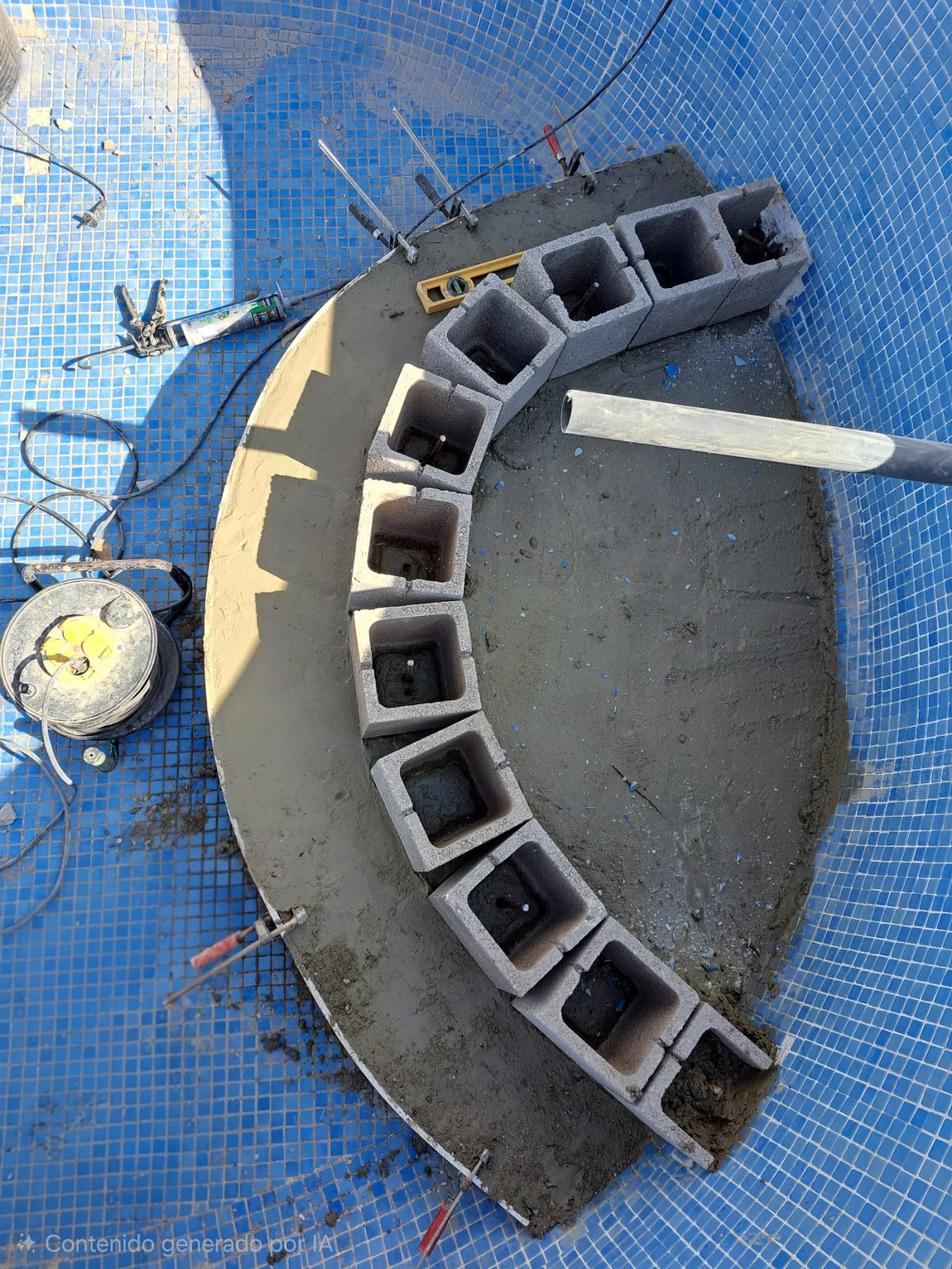
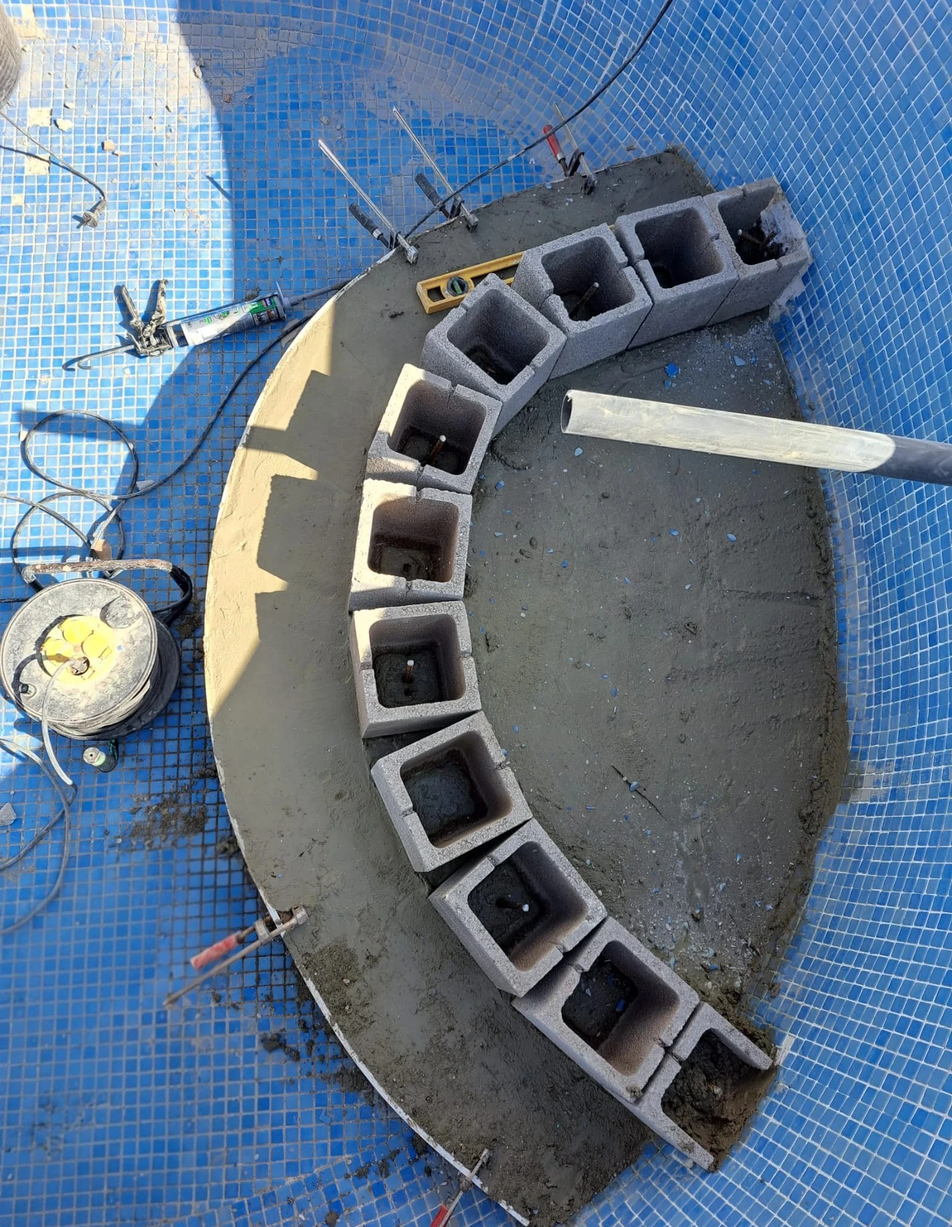
Sistema reseñas mejorada

diff --git a/docs/styles.css b/docs/styles.css
@@ -2068,6 +2068,14 @@ img {
    REVIEW FORM - Estilos Premium
    ======================================== */
 
+.web-reviews {
+  padding-bottom: 25px;
+}
+
+.web-reviews + .services {
+  padding-top: 50px;
+}
+
 .testimonials-review-divider {
   height: 2px;
   background: linear-gradient(90deg,
@@ -2122,14 +2130,34 @@ img {
     inset 0 1px 1px rgba(255, 255, 255, 0.15);
 }
 
-#reviewForm:hover {
-  background: linear-gradient(135deg,
-    rgba(255, 255, 255, 0.12) 0%,
-    rgba(255, 255, 255, 0.08) 100%);
-  border-color: rgba(255, 102, 0, 0.18);
-  box-shadow:
-    0 16px 36px rgba(255, 102, 0, 0.12),
-    inset 0 1px 1px rgba(255, 255, 255, 0.25);
+.web-reviews #reviewForm {
+  background: var(--white);
+  border: 1px solid rgba(8, 15, 40, 0.08);
+  box-shadow: var(--shadow);
+  margin: 20px auto 50px;
+  backdrop-filter: none;
+}
+
+.web-reviews .rating-block {
+  background: rgba(15, 23, 42, 0.04);
+  border: 1px solid rgba(8, 15, 40, 0.08);
+}
+
+.web-reviews .rating-label,
+.web-reviews .rating-hint {
+  color: var(--gray);
+}
+
+.web-reviews .rating-stars label {
+  color: rgba(24, 24, 24, 0.25);
+}
+
+.web-reviews #reviewCounter {
+  color: var(--gray);
+}
+
+.web-reviews .form-consent {
+  color: var(--gray);
 }
 
 #reviewForm > input,
@@ -2941,6 +2969,7 @@ img {
   display: flex;
   justify-content: center;
   margin-top: 40px;
+  margin-bottom: 50px;
 }
 
 @media (max-width: 1024px) {
@@ -2990,4 +3019,64 @@ img {
 img {
   user-select: none;
   -webkit-user-drag: none;
+}
+
+.section-divider {
+  display: flex;
+  justify-content: center;
+  align-items: center;
+  margin: 45px auto 45px;
+}
+
+.section-divider span {
+  width: min(220px, 60vw);
+  height: 2px;
+  border-radius: 999px;
+  background: linear-gradient(
+    90deg,
+    transparent 0%,
+    rgba(255,106,0,0.15) 10%,
+    #ff6a00 50%,
+    rgba(255,106,0,0.15) 90%,
+    transparent 100%
+  );
+  position: relative;
+}
+
+.section-divider span::before {
+  content: '';
+  position: absolute;
+  left: 50%;
+  top: 50%;
+  width: 12px;
+  height: 12px;
+  background: #ff6a00;
+  border-radius: 50%;
+  transform: translate(-50%, -50%);
+  box-shadow:
+    0 0 10px rgba(255,106,0,0.6),
+    0 0 25px rgba(255,106,0,0.35);
+}
+
+.review-public-choice{
+  margin-top: 20px;
+}
+
+.review-public-choice p{
+  margin-bottom: 12px;
+  font-weight: 600;
+}
+
+.review-public-options{
+  margin-bottom: 20px;
+  display:flex;
+  gap:20px;
+  flex-wrap:wrap;
+}
+
+.review-public-options label{
+  display:flex;
+  align-items:center;
+  gap:8px;
+  cursor:pointer;
 }

diff --git a/docs/index.html b/docs/index.html
@@ -301,6 +301,29 @@
         <span class="dot" data-index="3"></span>
         <span class="dot" data-index="4"></span>
       </div>
+    </div>
+  </section>
+
+  <section class="section web-reviews">
+    <div class="container">
+      <div class="section-header">
+        <span class="section-tag">Reseñas verificadas</span>
+        <h2 class="section-title">
+          Opiniones de clientes
+        </h2>
+      </div>
+
+      <div class="reviews-grid" id="reviewsGrid"></div>
+      <div class="reviews-more">
+        <a href="reviews.html" class="btn-secondary">
+          Ver todas las reseñas
+        </a>
+      </div>
+
+      <div class="section-divider">
+        <span></span>
+      </div>
+
       <form id="reviewForm">
 
         <input type="text" id="review-name" placeholder="Tu nombre" required>
@@ -342,7 +365,7 @@
 
         <div class="form-consent">
           <input type="checkbox" id="review-consent" name="review-consent" required>
-          <label for="review-consent" style="color: white;">
+          <label for="review-consent">
             He leído y acepto la
             <a href="legal.html#privacidad" rel="noopener" style="text-decoration: none;">
               Política de Privacidad
@@ -354,31 +377,27 @@
           </label>
         </div>
 
+        <div class="review-public-choice">
+          <p>¿Nos autorizas a publicar tu reseña en la web?</p>
+
+          <div class="review-public-options">
+            <label>
+              <input type="radio" name="review-public" value="si" required>
+              Sí
+            </label>
+            <label>
+              <input type="radio" name="review-public" value="no" required>
+              No
+            </label>
+          </div>
+        </div>
+
         <button type="submit">
           Enviar reseña
         </button>
 
         <div id="reviewMessage"></div>
-
       </form>
-    </div>
-  </section>
-
-  <section class="section web-reviews">
-    <div class="container">
-      <div class="section-header">
-        <span class="section-tag">Reseñas verificadas</span>
-        <h2 class="section-title">
-          Opiniones de clientes
-        </h2>
-      </div>
-
-      <div class="reviews-grid" id="reviewsGrid"></div>
-      <div class="reviews-more">
-        <a href="reviews.html" class="btn-secondary">
-          Ver todas las reseñas
-        </a>
-      </div>
     </div>
   </section>
 

diff --git a/docs/legal.html b/docs/legal.html
@@ -61,7 +61,11 @@
       <p>El envío del formulario puede redirigir la información proporcionada a WhatsApp con el fin de facilitar la comunicación entre el usuario y Reformas Vesko.</p>
 
       <h3>Formulario de reseñas</h3>
-      <p>El formulario de reseñas permite enviar un nombre y un comentario de forma voluntaria con el objetivo de mostrar opiniones y experiencias relacionadas con los servicios ofrecidos.</p>
+      <p>El formulario de reseñas permite enviar un nombre, una valoración (de 1 a 5) y un comentario relacionado con los servicios ofrecidos por Reformas Vesko.</p>
+      <p>El usuario podrá decidir expresamente si autoriza o no la publicación de su reseña en esta página web mediante la opción correspondiente incluida en el formulario.</p>
+      <p>En caso de autorizar su publicación, la reseña podrá mostrarte públicamente junto al nombre facilitado por el usuario.
+
+    <p>El usuario podrá solicitar en cualquier momento la modificación o eliminación de su reseña contactando mediante el correo electrónico <a href="mailto:vesko7744@gmail.com?subject=Solicitud%20de%20modificación%20de%20una%20reseña&body=Hola%20Reformas%20Vesko,%0A%0ANecesito%20por%20favor%20cambiar%20una%20reseña%20publicada%20en%20vuestra%20web.%0A%0AGracias."><span style="color: #f76500">vesko7744@gmail.com</span></a>.</p>
 
       <h3>Cesión de datos</h3>
       <p>Los datos facilitados no serán cedidos a terceros salvo obligación legal.</p>
@@ -125,8 +129,6 @@
       <p>Titular del sitio web: Reformas Vesko</p>
       <p>Email: <a href="mailto:vesko7744@gmail.com"><span style="color: #f76500">vesko7744@gmail.com</span></a></p>
       <p>Teléfono: <a href="tel:+34633807795"><span style="color: #f76500">633 80 77 95</span></a></p>
-      <div class="legal-divider"></div>
-      <p>Última actualización: mayo de 2026</p>
     </div>
   </div>
 </section>

diff --git a/docs/script.js b/docs/script.js
@@ -202,6 +202,7 @@ function initContactForm() {
       📞 Teléfono: ${telefono}
       🛠 Servicio: ${servicioTexto}
       📧 Email: ${email || 'No indicado'}
+      📝 Publicar en web: ${publicConsent}
 
       💬 Mensaje:
       ${mensaje || 'Sin mensaje'}`
@@ -327,6 +328,8 @@ function initReviewForm() {
     const name = (nameInput.value || '').trim();
     const ratingSelected = form.querySelector('input[name="review-stars"]:checked');
     const comment = (commentInput.value || '').trim();
+    const publicConsent =
+      form.querySelector('input[name="review-public"]:checked')?.value || 'no';
     const hp = honeypot ? (honeypot.value || '') : '';
 
     // Validaciones básicas
@@ -378,7 +381,8 @@ function initReviewForm() {
           {
             name,
             stars: starsNum,
-            comment
+            comment,
+            public_consent: publicConsent === 'si'
           }
         ]);
 
@@ -875,12 +879,6 @@ async function initWebReviews() {
 
     const stars = '★'.repeat(review.stars) + '☆'.repeat(5 - review.stars);
 
-    const formattedDate = new Date(review.created_at).toLocaleDateString('es-ES', {
-      year: 'numeric',
-      month: 'long',
-      day: 'numeric'
-    });
-
     card.innerHTML = `
       <div class="review-stars">${stars}</div>
 
@@ -890,7 +888,6 @@ async function initWebReviews() {
 
       <div class="review-footer">
         <span class="review-name">${review.name}</span>
-        <span class="review-date">${formattedDate}</span>
       </div>
     `;
 
@@ -968,7 +965,6 @@ async function initReviewsPage(page = 1) {
 
       <div class="review-footer">
         <span class="review-name">${review.name}</span>
-        <span class="review-date">${formattedDate}</span>
       </div>
     `;
 
